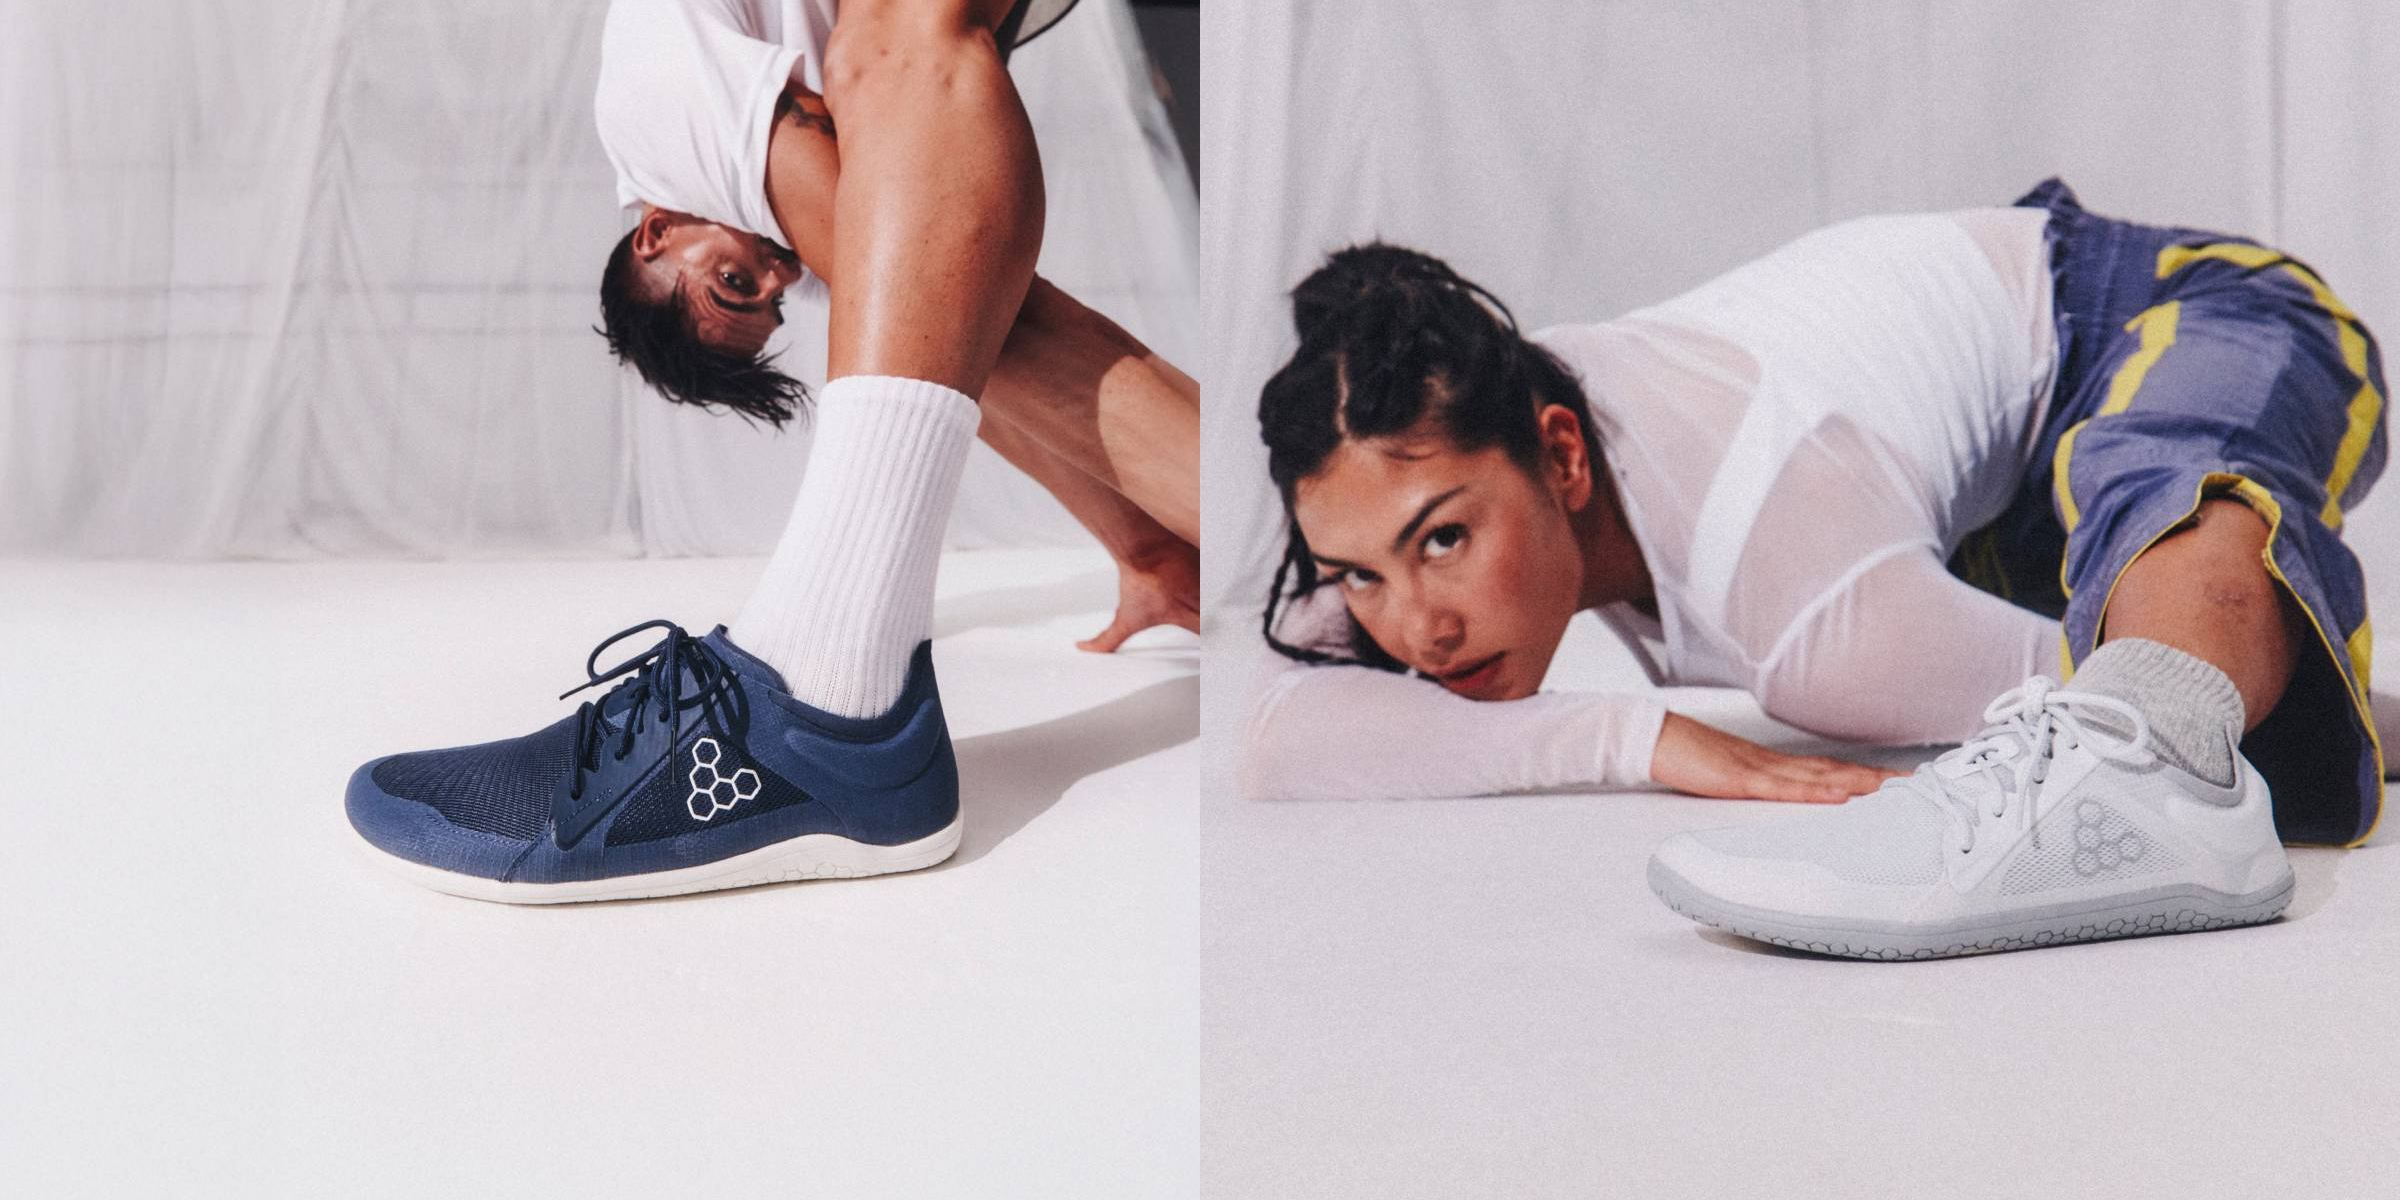
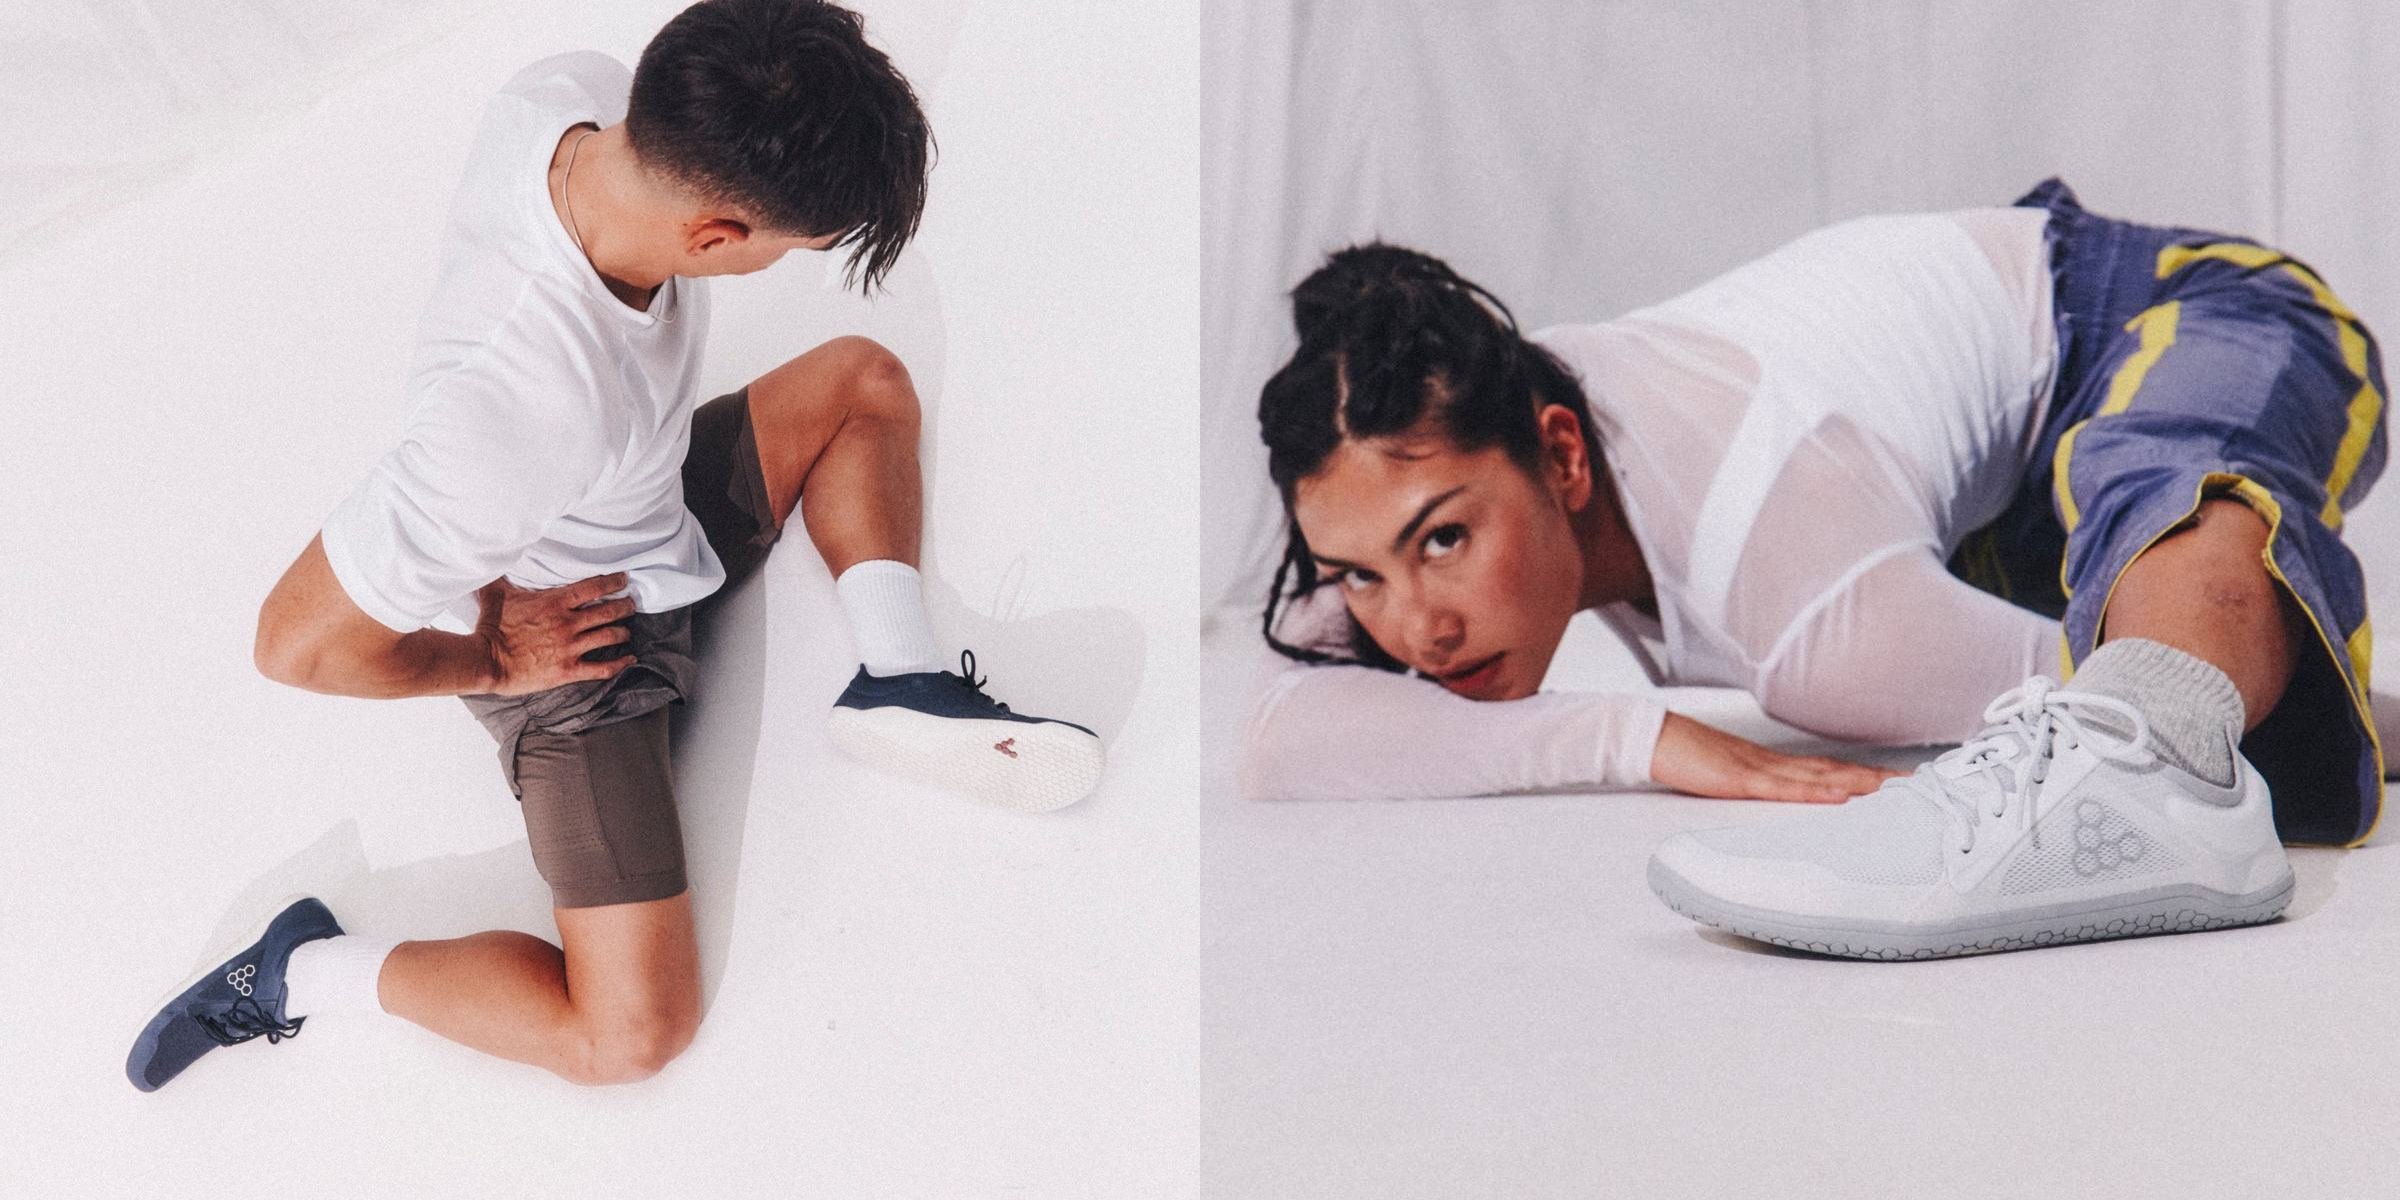
Set the chosen hero and brand frames, swap in the official size chart
Hero left and the brand block take the frames picked from the shortlist:
a men's Primus Lite IV kneeling frame beside the women's Mineral in white,
and the lacing close-up alongside the brand copy. Both halves of the hero
are now models Barefootinc stocks.

The size guide is replaced with Vivobarefoot's own black size chart, which
is portrait where the old sheet was landscape. Image-only dialogs get a
variant that wraps the picture and caps it at 88vh instead of stretching it
to the panel width, so the whole chart is readable without scrolling; the
floor plan uses the same variant.

Changed region(s): [[0.0, 0.0, 0.5, 0.925]]

diff --git a/src/components/Modal.jsx b/src/components/Modal.jsx
@@ -4,7 +4,7 @@ import { useEffect, useRef } from 'react';
  * Backdrop dialog. Clicking anywhere that is not the panel closes it, as does
  * Escape — the panel itself stops the click from reaching the backdrop.
  */
-export default function Modal({ open, onClose, label, children, wide = false }) {
+export default function Modal({ open, onClose, label, children, wide = false, image = false }) {
   const panel = useRef(null);
 
   useEffect(() => {
@@ -32,7 +32,9 @@ export default function Modal({ open, onClose, label, children, wide = false }) 
       onClick={onClose}
     >
       <div
-        className={`modal__panel${wide ? ' modal__panel--wide' : ''}`}
+        className={`modal__panel${wide ? ' modal__panel--wide' : ''}${
+          image ? ' modal__panel--image' : ''
+        }`}
         ref={panel}
         onClick={(e) => e.stopPropagation()}
       >

diff --git a/src/App.css b/src/App.css
@@ -823,10 +823,21 @@
   transform: translate(-50%, -50%) rotate(-45deg);
 }
 
+/* an image-only dialog wraps its picture, so a portrait sheet is capped by
+   viewport height rather than stretched to the panel's width */
+.modal__panel--image {
+  width: auto;
+  max-width: min(1080px, 96vw);
+  overflow: visible;
+}
+
 .modal__image {
   display: block;
-  width: 100%;
+  width: auto;
+  max-width: 100%;
+  max-height: 88vh;
   height: auto;
+  margin-inline: auto;
 }
 
 .gallery {

diff --git a/src/components/Store.jsx b/src/components/Store.jsx
@@ -87,7 +87,7 @@ export default function Store() {
         </div>
       </div>
 
-      <Modal open={map} onClose={() => setMap(false)} label="K Village floor plan" wide>
+      <Modal open={map} onClose={() => setMap(false)} label="K Village floor plan" wide image>
         <img
           className="modal__image"
           src="/img/store-map.jpg"

diff --git a/src/components/ProductRail.jsx b/src/components/ProductRail.jsx
@@ -165,6 +165,7 @@ export default function ProductRail({ tab, setTab }) {
         onClose={() => setSizeChart(false)}
         label="VIVOBAREFOOT size guide"
         wide
+        image
       >
         <img className="modal__image" src="/img/size-guide.jpg" alt="VIVOBAREFOOT footwear size guide, men's and women's" />
       </Modal>

diff --git a/src/components/FAQ.jsx b/src/components/FAQ.jsx
@@ -75,6 +75,7 @@ export default function FAQ() {
         onClose={() => setSizeChart(false)}
         label="VIVOBAREFOOT size guide"
         wide
+        image
       >
         <img
           className="modal__image"
